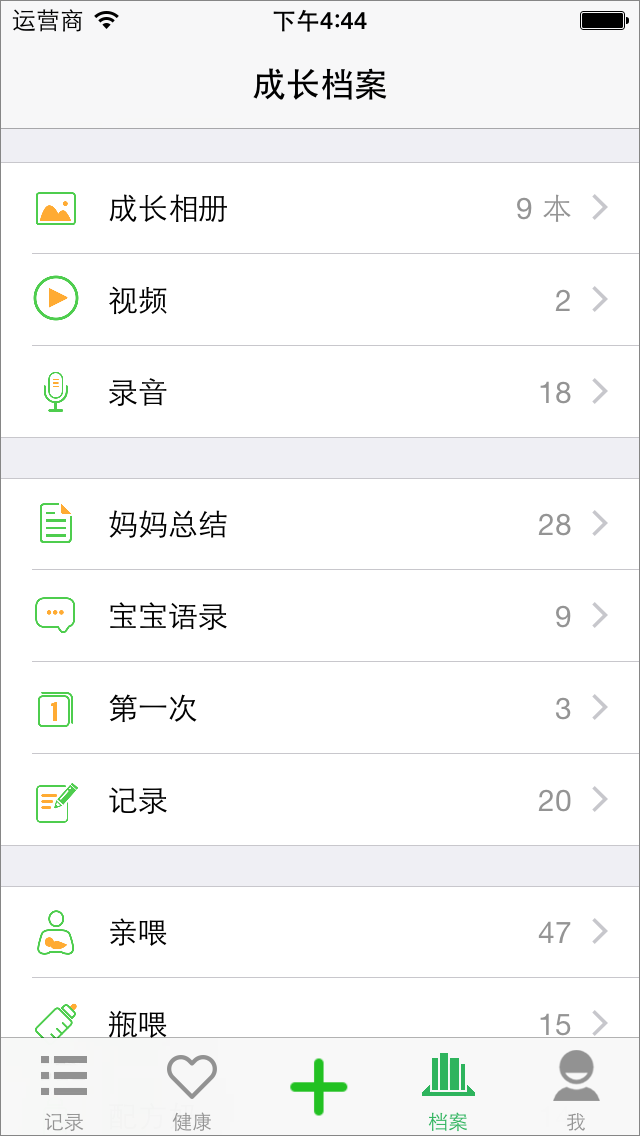
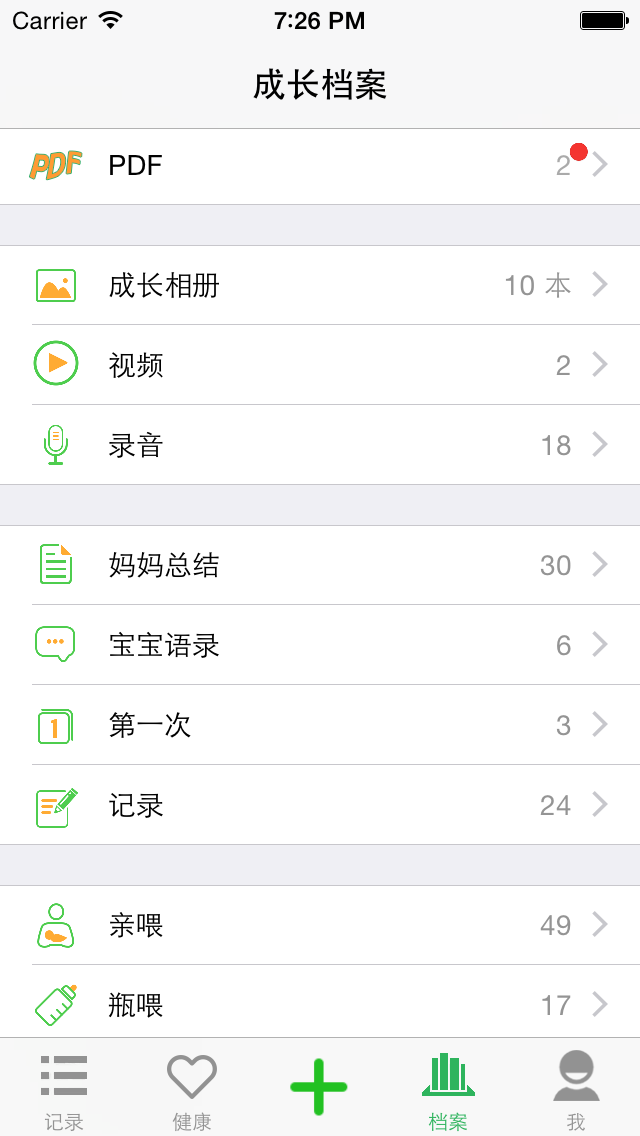
update images

diff --git a/index.html b/index.html
@@ -205,7 +205,7 @@
                         <div class="col-sm-6">
                             <h3>宝宝成长相册</h3>
                             <p>
-                                自动生成精美的成长相册，专属于家庭的温馨时刻
+                                一键导入照片, 一键生成PDF书
                             </p>
                         </div>
                         <div class="col-sm-4 col-sm-offset-1">
